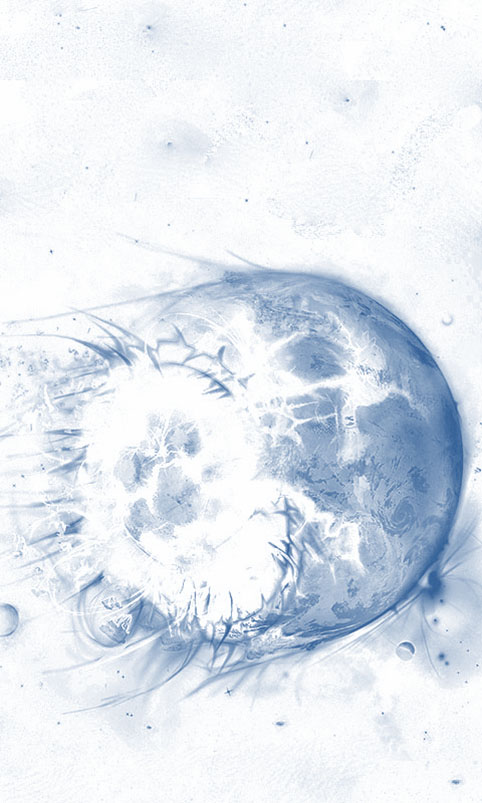
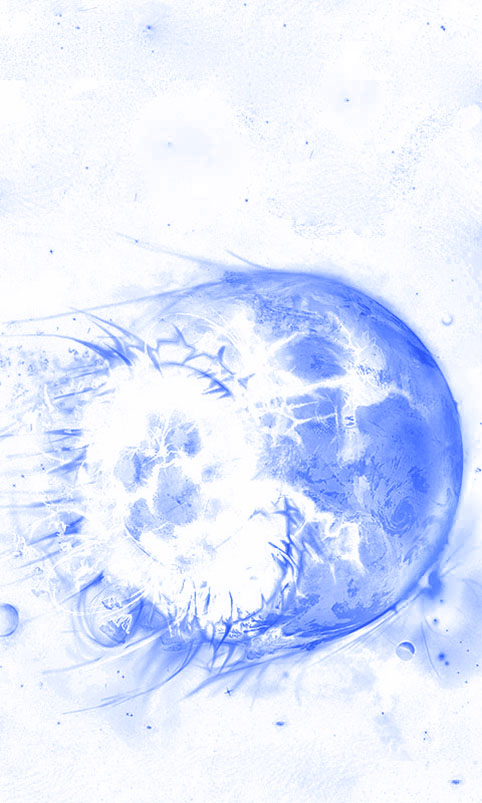
[2012] ultimi aggiustamenti grafici

diff --git a/TwentyTwelve_Organizer/TimerPage.xaml b/TwentyTwelve_Organizer/TimerPage.xaml
@@ -1,116 +1,115 @@
 <phone:PhoneApplicationPage 
-    x:Class="TwentyTwelve_Organizer.TimerPage"
-    xmlns="http://schemas.microsoft.com/winfx/2006/xaml/presentation"
-    xmlns:x="http://schemas.microsoft.com/winfx/2006/xaml"
-    xmlns:phone="clr-namespace:Microsoft.Phone.Controls;assembly=Microsoft.Phone"
-    xmlns:shell="clr-namespace:Microsoft.Phone.Shell;assembly=Microsoft.Phone"
-    xmlns:d="http://schemas.microsoft.com/expression/blend/2008"
-    xmlns:mc="http://schemas.openxmlformats.org/markup-compatibility/2006"
-    xmlns:toolkit="clr-namespace:Microsoft.Phone.Controls;assembly=Microsoft.Phone.Controls.Toolkit"
-    FontFamily="/TwentyTwelve_Organizer;component/Fonts/Fonts.zip#Consolas"
-    FontSize="26" Foreground="{StaticResource GreenGradient}"
-    SupportedOrientations="Portrait" Orientation="Portrait"
-    mc:Ignorable="d" d:DesignHeight="800" d:DesignWidth="480"
-    shell:SystemTray.IsVisible="False"
-    Loaded="PhoneApplicationPage_Loaded">
+	x:Class="TwentyTwelve_Organizer.TimerPage"
+	xmlns="http://schemas.microsoft.com/winfx/2006/xaml/presentation"
+	xmlns:x="http://schemas.microsoft.com/winfx/2006/xaml"
+	xmlns:phone="clr-namespace:Microsoft.Phone.Controls;assembly=Microsoft.Phone"
+	xmlns:shell="clr-namespace:Microsoft.Phone.Shell;assembly=Microsoft.Phone"
+	xmlns:d="http://schemas.microsoft.com/expression/blend/2008"
+	xmlns:mc="http://schemas.openxmlformats.org/markup-compatibility/2006"
+	xmlns:toolkit="clr-namespace:Microsoft.Phone.Controls;assembly=Microsoft.Phone.Controls.Toolkit"
+	FontFamily="/TwentyTwelve_Organizer;component/Fonts/Fonts.zip#Consolas"
+	FontSize="26" Foreground="{StaticResource GreenGradient}"
+	SupportedOrientations="Portrait" Orientation="Portrait"
+	mc:Ignorable="d" d:DesignHeight="800" d:DesignWidth="480"
+	shell:SystemTray.IsVisible="False"
+	Loaded="PhoneApplicationPage_Loaded">
 
-    <toolkit:TransitionService.NavigationInTransition>
-        <toolkit:NavigationInTransition>
-            <toolkit:NavigationInTransition.Backward>
-                <toolkit:SlideTransition Mode="SlideRightFadeIn" />
-            </toolkit:NavigationInTransition.Backward>
-        </toolkit:NavigationInTransition>
-    </toolkit:TransitionService.NavigationInTransition>
-    <toolkit:TransitionService.NavigationOutTransition>
-        <toolkit:NavigationOutTransition>
-            <toolkit:NavigationOutTransition.Backward>
-                <toolkit:SlideTransition Mode="SlideRightFadeOut" />
-            </toolkit:NavigationOutTransition.Backward>
-            <toolkit:NavigationOutTransition.Forward>
-                <toolkit:SlideTransition Mode="SlideLeftFadeOut" />
-            </toolkit:NavigationOutTransition.Forward>
-        </toolkit:NavigationOutTransition>
-    </toolkit:TransitionService.NavigationOutTransition>
+	<toolkit:TransitionService.NavigationInTransition>
+		<toolkit:NavigationInTransition>
+			<toolkit:NavigationInTransition.Backward>
+				<toolkit:SlideTransition Mode="SlideRightFadeIn" />
+			</toolkit:NavigationInTransition.Backward>
+		</toolkit:NavigationInTransition>
+	</toolkit:TransitionService.NavigationInTransition>
+	<toolkit:TransitionService.NavigationOutTransition>
+		<toolkit:NavigationOutTransition>
+			<toolkit:NavigationOutTransition.Backward>
+				<toolkit:SlideTransition Mode="SlideRightFadeOut" />
+			</toolkit:NavigationOutTransition.Backward>
+			<toolkit:NavigationOutTransition.Forward>
+				<toolkit:SlideTransition Mode="SlideLeftFadeOut" />
+			</toolkit:NavigationOutTransition.Forward>
+		</toolkit:NavigationOutTransition>
+	</toolkit:TransitionService.NavigationOutTransition>
 
-    <Grid x:Name="LayoutRoot" Background="{StaticResource BackgroundImage}" >
-        <Grid.RowDefinitions>
-            <RowDefinition Height="Auto"/>
-            <RowDefinition Height="*"/>
-        </Grid.RowDefinitions>
+	<Grid x:Name="LayoutRoot" Background="{StaticResource BackgroundImage}" >
+		<Grid.RowDefinitions>
+			<RowDefinition Height="Auto"/>
+			<RowDefinition Height="*"/>
+		</Grid.RowDefinitions>
 
-        <StackPanel x:Name="TitlePanel" Grid.Row="0" Margin="12,17,0,0">
-            <TextBlock x:Name="ApplicationTitle" Text="2012 Organizer" />
-            <TextBlock x:Name="PageTitle" Text="The End is coming" Margin="9,-7,0,0" FontSize="40" />
-        </StackPanel>
+		<StackPanel x:Name="TitlePanel" Grid.Row="0" Margin="12,17,0,0">
+			<TextBlock x:Name="ApplicationTitle" Text="2012 Organizer" />
+			<TextBlock x:Name="PageTitle" Text="The End is coming" Margin="9,-7,0,0" FontSize="40" />
+		</StackPanel>
 
-        <Grid x:Name="ContentPanel" Grid.Row="1" Margin="12,0,12,0">
-            <Grid.RowDefinitions>
-                <RowDefinition Height="Auto"/>
-                <RowDefinition Height="Auto"/>
-                <RowDefinition Height="Auto"/>
-                <RowDefinition Height="*"/>
-                <RowDefinition Height="Auto"/>
-                <RowDefinition Height="Auto"/>
-            </Grid.RowDefinitions>
-            <Grid HorizontalAlignment="Center" Margin="6" Grid.Row="0" >
-                <Grid.RowDefinitions>
-                    <RowDefinition />
-                    <RowDefinition />
-                </Grid.RowDefinitions>
-                <Grid.ColumnDefinitions>
-                    <ColumnDefinition Width="Auto" />
-                    <ColumnDefinition Width="Auto" />
-                    <ColumnDefinition Width="Auto" />
-                    <ColumnDefinition Width="Auto" />
-                </Grid.ColumnDefinitions>
-                <TextBlock Name="t_countdowndays" Text=" " Grid.Row="0" Grid.Column="0" TextAlignment="Center" Margin="6,0,30,6" />
-                <TextBlock Name="t_countdownhours" Grid.Row="0" Grid.Column="1" TextAlignment="Center" Margin="6,0,30,6" />
-                <TextBlock Name="t_countdownminutes" Grid.Row="0" Grid.Column="2" TextAlignment="Center" Margin="6,0,30,6" />
-                <TextBlock Name="t_countdownseconds" Grid.Row="0" Grid.Column="3" TextAlignment="Center" Margin="6,0,0,6" />
+		<Grid x:Name="ContentPanel" Grid.Row="1" Margin="12,0,12,0">
+			<Grid.RowDefinitions>
+				<RowDefinition Height="Auto"/>
+				<RowDefinition Height="Auto"/>
+				<RowDefinition Height="Auto"/>
+				<RowDefinition Height="*"/>
+				<RowDefinition Height="Auto"/>
+				<RowDefinition Height="Auto"/>
+			</Grid.RowDefinitions>
+			<Grid HorizontalAlignment="Center" Margin="6" Grid.Row="0" >
+				<Grid.RowDefinitions>
+					<RowDefinition />
+					<RowDefinition />
+				</Grid.RowDefinitions>
+				<Grid.ColumnDefinitions>
+					<ColumnDefinition Width="Auto" />
+					<ColumnDefinition Width="Auto" />
+					<ColumnDefinition Width="Auto" />
+					<ColumnDefinition Width="Auto" />
+				</Grid.ColumnDefinitions>
+				<TextBlock Name="t_countdowndays" Text=" " Grid.Row="0" Grid.Column="0" TextAlignment="Center" Margin="6,0,30,6" />
+				<TextBlock Name="t_countdownhours" Grid.Row="0" Grid.Column="1" TextAlignment="Center" Margin="6,0,30,6" />
+				<TextBlock Name="t_countdownminutes" Grid.Row="0" Grid.Column="2" TextAlignment="Center" Margin="6,0,30,6" />
+				<TextBlock Name="t_countdownseconds" Grid.Row="0" Grid.Column="3" TextAlignment="Center" Margin="6,0,0,6" />
 
-                <TextBlock Text="Days" Grid.Row="1" Grid.Column="0" Margin="6,0,30,6" />
-                <TextBlock Text="Hours" Grid.Row="1" Grid.Column="1" Margin="6,0,30,6" />
-                <TextBlock Text="Minutes" Grid.Row="1" Grid.Column="2" Margin="6,0,30,6" />
-                <TextBlock Text="Seconds" Grid.Row="1" Grid.Column="3" Margin="6,0,0,6" />
-            </Grid>
+				<TextBlock Text="Days" Grid.Row="1" Grid.Column="0" Margin="6,0,30,6" />
+				<TextBlock Text="Hours" Grid.Row="1" Grid.Column="1" Margin="6,0,30,6" />
+				<TextBlock Text="Minutes" Grid.Row="1" Grid.Column="2" Margin="6,0,30,6" />
+				<TextBlock Text="Seconds" Grid.Row="1" Grid.Column="3" Margin="6,0,0,6" />
+			</Grid>
 
-            <TextBlock Name="ProgressTextBlock" Text=" " HorizontalAlignment="Center"  Grid.Row="1"  />
-            <ProgressBar Name="TasksProgressBar" Margin="0,10,0,10"  Grid.Row="2"
-                         VerticalAlignment="Center" Foreground="{StaticResource GreenGradient}" >
-                <ProgressBar.RenderTransform>
-                    <ScaleTransform ScaleY="4" />
-                </ProgressBar.RenderTransform>
-            </ProgressBar>
+			<TextBlock Name="ProgressTextBlock" Text=" " HorizontalAlignment="Center"  Grid.Row="1"  />
+			<ProgressBar Name="TasksProgressBar" Margin="0,10,0,22"  Grid.Row="2"
+						 VerticalAlignment="Center" Foreground="{StaticResource GreenGradient}" >
+				<ProgressBar.RenderTransform>
+					<ScaleTransform ScaleY="4" />
+				</ProgressBar.RenderTransform>
+			</ProgressBar>
+				<TextBlock x:Name="EvalTextBlock" Grid.Row="3"
+					TextAlignment="Center" TextWrapping="Wrap"
+					Padding="10" VerticalAlignment="Center"
+					FontSize="34" FontWeight="Bold" FontStyle="Italic" >
+				</TextBlock>
+			<TextBlock Name="DemoTextBlock" Text="Demo" Grid.Row="3"
+					   FontSize="96" Visibility="Collapsed" Opacity="0"
+					   HorizontalAlignment="Center" VerticalAlignment="Center"
+					   TextAlignment="Center" FontStyle="Italic">
+				<TextBlock.RenderTransform>
+					<CompositeTransform Rotation="-30" ScaleX="2" CenterX="100" CenterY="100" />
+				</TextBlock.RenderTransform>
+			</TextBlock>
 
-            <TextBlock Name="EvalTextBlock" Margin="0,10,0,0"  Grid.Row="3" 
-                       TextAlignment="Center" Foreground="{StaticResource PhoneForegroundBrush}"
-                       Padding="10" TextWrapping="Wrap" VerticalAlignment="Center"
-                       Opacity="0.8" FontWeight="Bold" FontStyle="Italic" />
+			<Button Content="Tasks" Click="ViewTaskButton_Click" Grid.Row="4" 
+					Height="120" Width="300" Margin="0,10,0,0"
+					Style="{StaticResource MetallicButtonStyle}"
+					ManipulationStarted="Button_ManipulationStarted"
+					ManipulationCompleted="Button_ManipulationCompleted" />
 
-            <TextBlock Name="DemoTextBlock" Text="Demo"
-                       FontSize="96" Visibility="Collapsed"
-                       HorizontalAlignment="Center" VerticalAlignment="Center" Grid.Row="3"
-                       TextAlignment="Center" FontStyle="Italic" Opacity="0.8">
-                <TextBlock.RenderTransform>
-            		<CompositeTransform Rotation="-30" ScaleX="2" CenterX="100" CenterY="100" />
-            	</TextBlock.RenderTransform>
-            </TextBlock>
+			<Button Content="About" Click="AboutButton_Click" Grid.Row="5" 
+					Width="300" Height="60" Margin="0,10,0,10"
+					Style="{StaticResource MetallicButtonStyle}"
+					ManipulationStarted="Button_ManipulationStarted"
+					ManipulationCompleted="Button_ManipulationCompleted">
+			</Button>
+		</Grid>
 
-            <Button Content="Tasks" Click="ViewTaskButton_Click" Grid.Row="4" 
-                    Height="120" Width="300" Margin="0,10,0,0"
-                    Style="{StaticResource MetallicButtonStyle}"
-                    ManipulationStarted="Button_ManipulationStarted"
-                    ManipulationCompleted="Button_ManipulationCompleted" />
-
-            <Button Content="About" Click="AboutButton_Click" Grid.Row="5" 
-                    Width="300" Height="60" Margin="0,10,0,10"
-                    Style="{StaticResource MetallicButtonStyle}"
-                    ManipulationStarted="Button_ManipulationStarted"
-                    ManipulationCompleted="Button_ManipulationCompleted">
-            </Button>
-        </Grid>
-
-    </Grid>
+	</Grid>
 
 </phone:PhoneApplicationPage>
-    
+	

diff --git a/TwentyTwelve_Organizer/TasksPage.xaml b/TwentyTwelve_Organizer/TasksPage.xaml
@@ -65,9 +65,9 @@
                               VerticalAlignment="Center" />
                     <Rectangle Height="32" Width="8" Margin="-15,0,8,0"
                                Fill="{Binding Path=Difficulty, Converter={StaticResource TaskDifficultyConverter}}"  />
-                    <Button Width="300" VerticalAlignment="Center"
+                    <Button Width="330" VerticalAlignment="Center"
                                     Click="EditTaskButton_Click"
-                                    WPCommon:TiltEffect.IsTiltEnabled="True">
+                                    toolkit:TiltEffect.IsTiltEnabled="True">
                         <Button.Template>
                             <ControlTemplate />
                         </Button.Template>
@@ -90,12 +90,11 @@
             <controls:Pivot.Title>
                 <TextBlock Text="2012 Organizer" Style="{StaticResource GreenTextBlockStyle}" />
             </controls:Pivot.Title>
-
             <controls:PivotItem >
                 <controls:PivotItem.Header>
                     <TextBlock Text="To do" Style="{StaticResource GreenTextBlockStyle}" />
                 </controls:PivotItem.Header>
-                <ListBox Margin="6"
+                <ListBox Margin="0,-24,0,0"
                          ItemTemplate="{StaticResource TaskTemplate}"
                          ItemsSource="{Binding Source={StaticResource ToDoCVS}}">
                     <ItemsControl.ItemsPanel>
@@ -105,12 +104,11 @@
                     </ItemsControl.ItemsPanel>
                 </ListBox>
             </controls:PivotItem>
-
-            <controls:PivotItem >
+            <controls:PivotItem>
                 <controls:PivotItem.Header>
                     <TextBlock Text="Completed" Style="{StaticResource GreenTextBlockStyle}" />
                 </controls:PivotItem.Header>
-                <ListBox Margin="6"
+                <ListBox Margin="0,-24,0,0"
                          ItemTemplate="{StaticResource TaskTemplate}"
                          ItemsSource="{Binding Source={StaticResource CompletedCVS}}">
                     <ItemsControl.ItemsPanel>
@@ -121,7 +119,6 @@
                 </ListBox>
             </controls:PivotItem>
         </controls:Pivot>
-
 
         <Button Content="Add Task" Click="AddTaskButton_Click"
                 Height="70" Margin="6" Grid.Row="1"

diff --git a/TwentyTwelve_Organizer/App.xaml b/TwentyTwelve_Organizer/App.xaml
@@ -4,6 +4,7 @@
     xmlns:x="http://schemas.microsoft.com/winfx/2006/xaml"
     xmlns:phone="clr-namespace:Microsoft.Phone.Controls;assembly=Microsoft.Phone"
     xmlns:shell="clr-namespace:Microsoft.Phone.Shell;assembly=Microsoft.Phone"
+    xmlns:toolkit="clr-namespace:Microsoft.Phone.Controls;assembly=Microsoft.Phone.Controls.Toolkit"
     xmlns:WPCommon="clr-namespace:WPCommon;assembly=WPCommon" >
 
     <Application.Resources>
@@ -12,11 +13,11 @@
         
         <LinearGradientBrush x:Name="GreenGradient" EndPoint="0.5,1" StartPoint="0.5,0">
             <GradientStop Color="#FF2DD000" Offset="0"/>
-            <GradientStop Color="#FF7C7C7C" Offset="1"/>
+            <GradientStop Color="#FFB5E5AA" Offset="1"/>
         </LinearGradientBrush>
 
         <Style x:Key="MetallicButtonStyle" TargetType="Button">
-            <Setter Property="WPCommon:TiltEffect.IsTiltEnabled" Value="True"/>
+            <Setter Property="toolkit:TiltEffect.IsTiltEnabled" Value="True"/>
             <Setter Property="FontFamily" Value="/TwentyTwelve_Organizer;component/Fonts/Fonts.zip#Consolas" />
             <Setter Property="FontSize" Value="35" />
             <Setter Property="Template">

diff --git a/TwentyTwelve_Organizer/App.xaml.cs b/TwentyTwelve_Organizer/App.xaml.cs
@@ -45,8 +45,6 @@ namespace TwentyTwelve_Organizer
 
             // Phone-specific initialization
             InitializePhoneApplication();
-
-
         }
 
         private void InitializeSounds()
@@ -65,6 +63,18 @@ namespace TwentyTwelve_Organizer
         // This code will not execute when the application is reactivated
         private void Application_Launching(object sender, LaunchingEventArgs e)
         {
+            SetTheme();
+        }
+
+        // Code to execute when the application is activated (brought to foreground)
+        // This code will not execute when the application is first launched
+        private void Application_Activated(object sender, ActivatedEventArgs e)
+        {
+            SetTheme();
+        }
+
+        private void SetTheme()
+        {
             if (Settings.LightThemeEnabled)
             {
                 var isource = new BitmapImage(new Uri("Images/2012background-white.jpg", UriKind.Relative));
@@ -74,11 +84,6 @@ namespace TwentyTwelve_Organizer
             }
         }
 
-        // Code to execute when the application is activated (brought to foreground)
-        // This code will not execute when the application is first launched
-        private void Application_Activated(object sender, ActivatedEventArgs e)
-        {
-        }
 
         // Code to execute when the application is deactivated (sent to background)
         // This code will not execute when the application is closing
